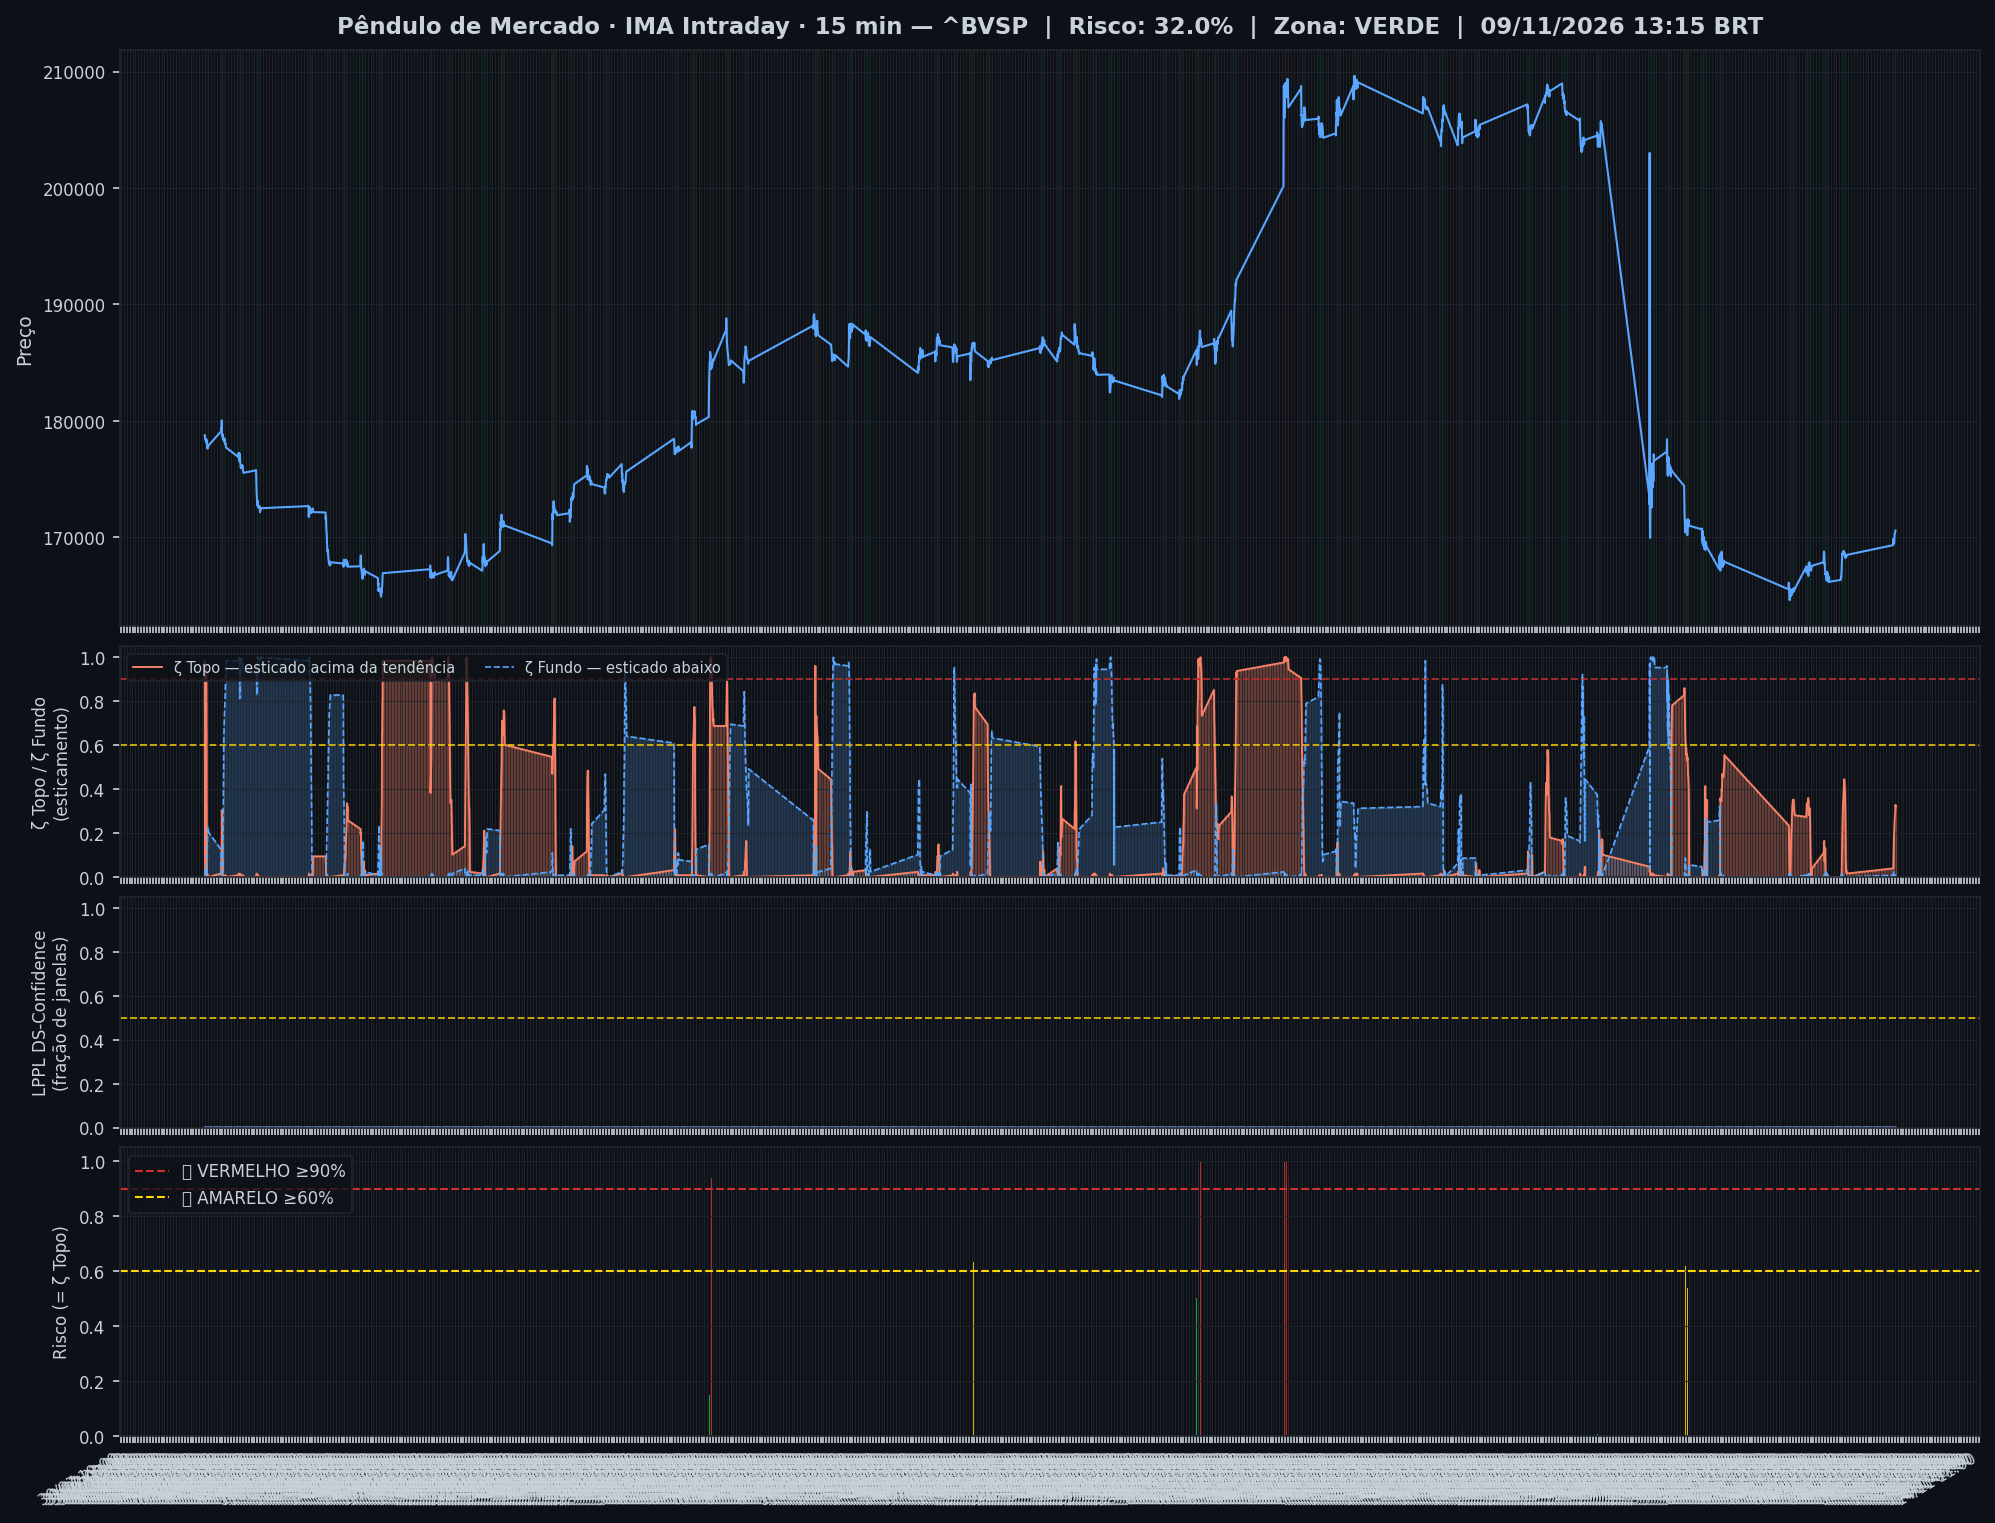
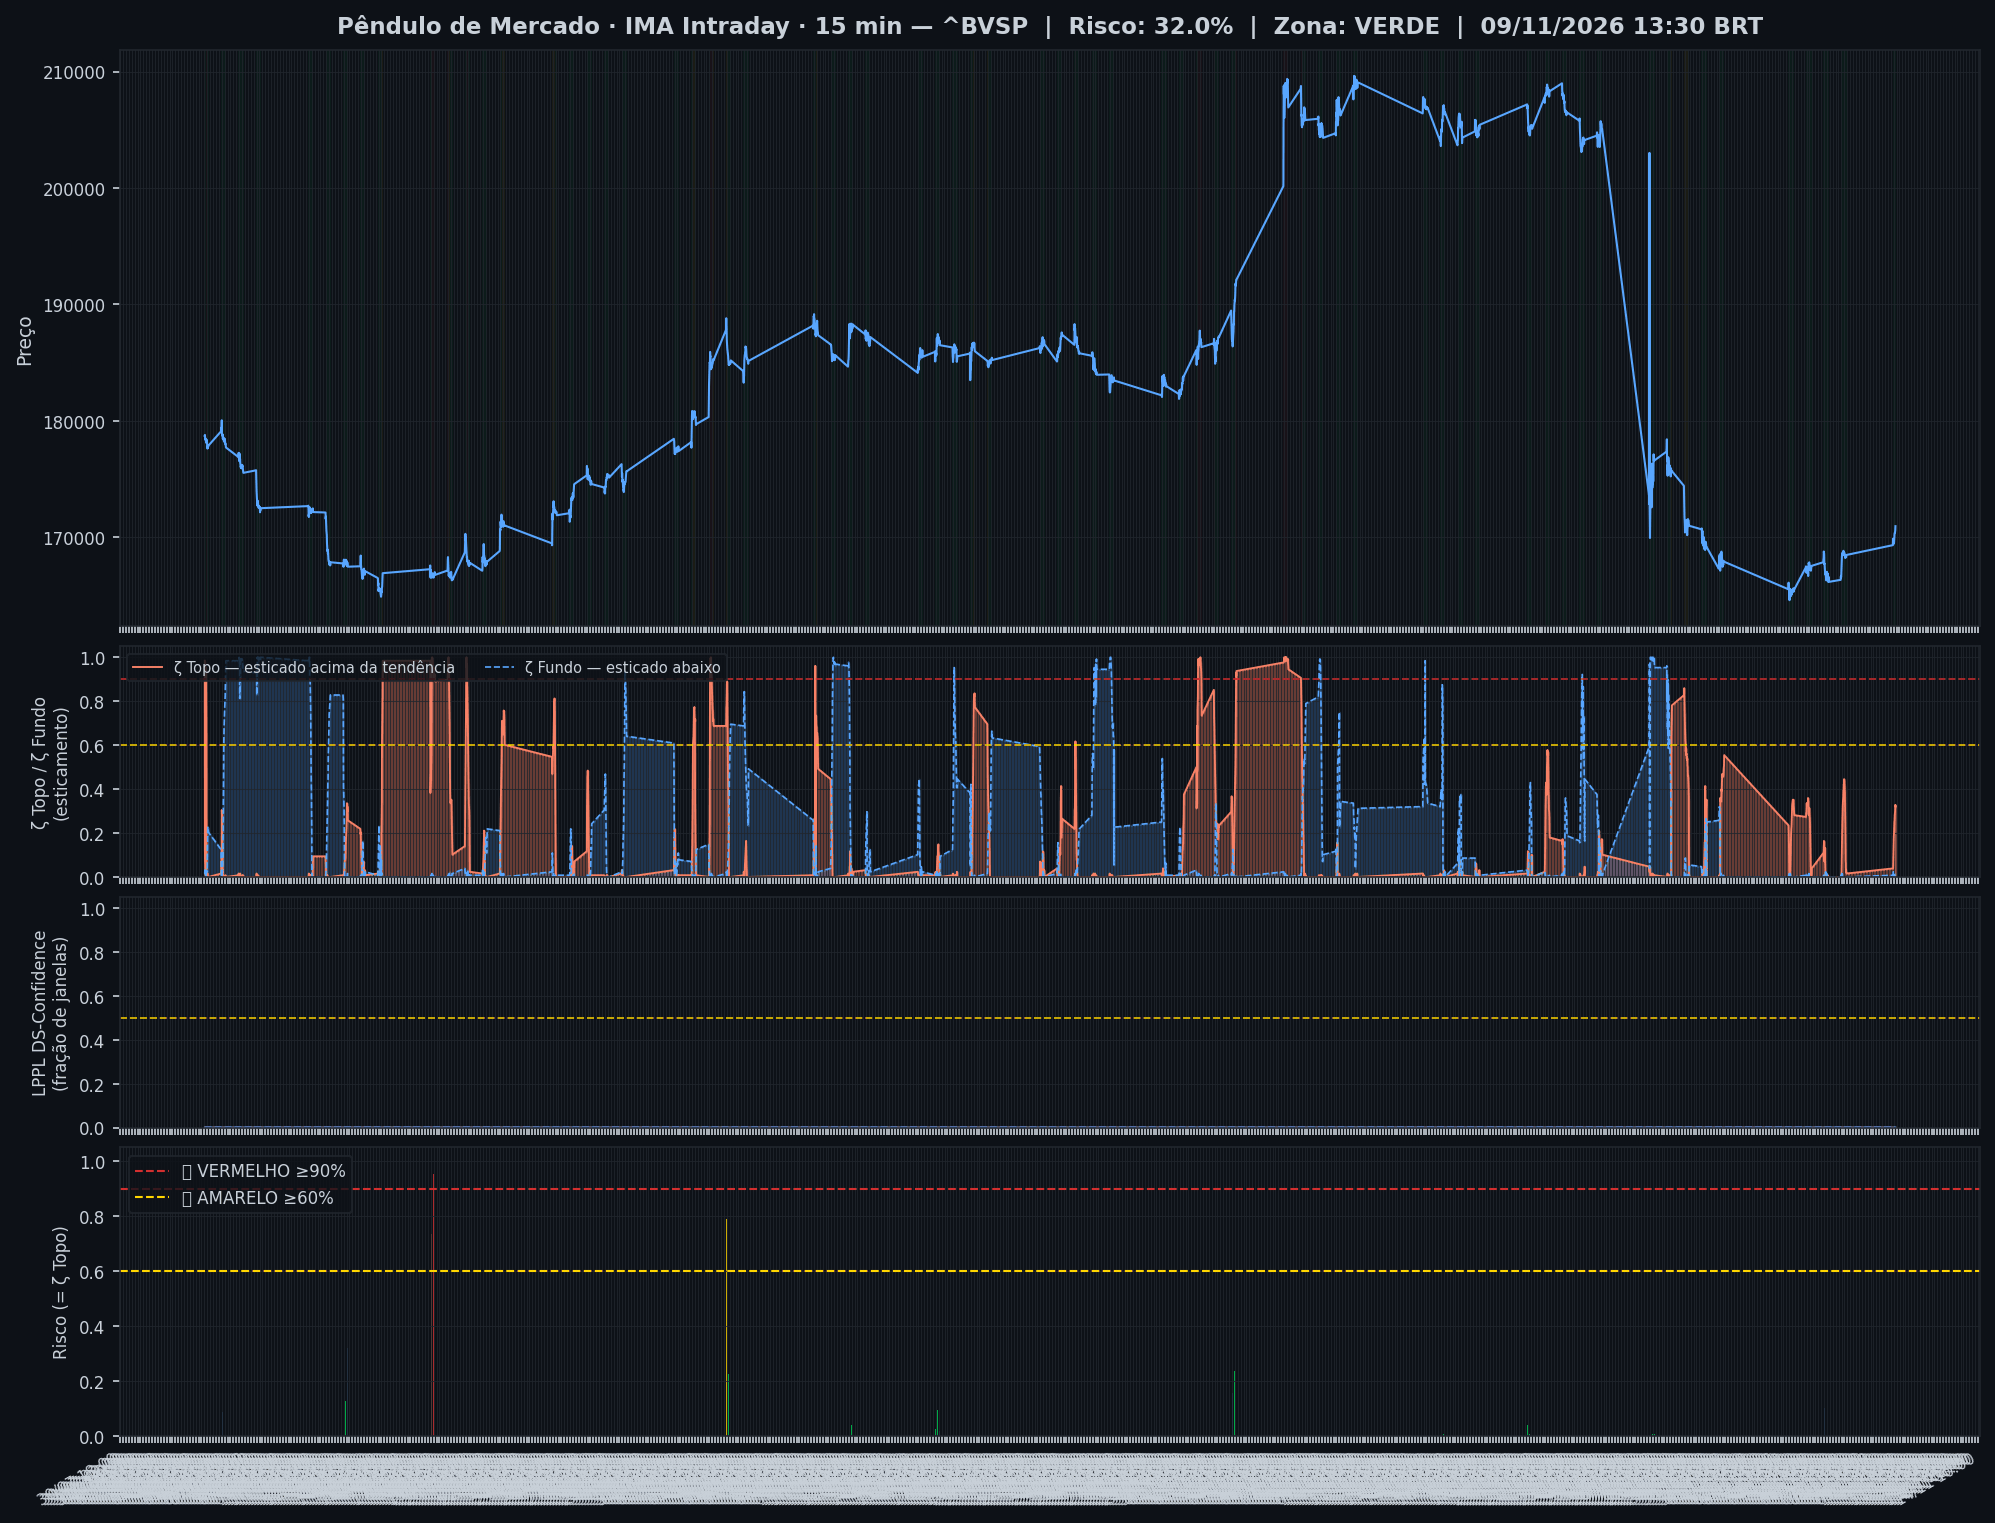
🤖 Auto: Sinal 09/11/2026 13:46

Changed region(s): [[0.0932, 0.432, 0.9634, 0.5863], [0.0311, 0.9258, 0.9945, 0.9875]]

diff --git a/content/intraday/2026-11-09.md b/content/intraday/2026-11-09.md
@@ -1,10 +1,10 @@
 ---
-title: "🟢 Intraday 09/11/2026 13:15 BRT — VERDE"
+title: "🟢 Intraday 09/11/2026 13:30 BRT — VERDE"
 date: 2026-11-09
 tags: [intraday]
 ---
 
-> [!success] Onde o mercado está agora (09/11 13:15, candles de 15 min): **🟢 Calmo**
+> [!success] Onde o mercado está agora (09/11 13:30, candles de 15 min): **🟢 Calmo**
 > `Pânico ◀─────────────●───────▶ Euforia`
 >
 > O Ibovespa está dentro da sua faixa normal, sem excesso para cima nem para baixo.
@@ -20,7 +20,7 @@ tags: [intraday]
 > | 📍 **Sinais** | hoje: nenhum sinal | [abrir](sinais-topo-fundo/) |
 > | 🧪 **Placar ao vivo** | 1 operação(ões), 0 com lucro, soma -0,8% | [abrir](operacoes/) |
 
-> [!success] IMA Intraday · 15 min (09/11 13:15): 🟢 **VERDE** — Risco 32% · ▼ -1 p.p. vs leitura anterior
+> [!success] IMA Intraday · 15 min (09/11 13:30): 🟢 **VERDE** — Risco 32% · ＝ +0 p.p. vs leitura anterior
 > `██████░░░░░░░░░░░░░░`
 > Preço na faixa normal em torno da tendência.
 
@@ -32,13 +32,13 @@ tags: [intraday]
 >
 > *Leitura educacional baseada em 26 anos de dados, não recomendação. [Como usar](../metodologia/crise#3-como-usar-na-prática).*
 
-| Indicador — IMA Intraday · 15 min (09/11 13:15) | Valor |
+| Indicador — IMA Intraday · 15 min (09/11 13:30) | Valor |
 |---|---|
 | 🔴 ζ Topo — preço esticado acima da tendência | **32%** |
 | 🔵 ζ Fundo — preço esticado abaixo da tendência | 0% |
 | 🫧 LPPL bolha — alta super-exponencial (risco de crash) | 0% |
 | 🫧 LPPL antibolha — queda super-exponencial (risco de repique) | 0% |
-| 📊 Ibovespa | 170.602 pts |
+| 📊 Ibovespa | 170.968 pts |
 
 ![Gráfico do sinal](../graficos/sinal_intraday.png)
 
@@ -46,6 +46,7 @@ tags: [intraday]
 
 | Data | Zona | Evento | Risco | ζ Topo | ζ Fundo | LPPL |
 |---|---|---|---|---|---|---|
+| 2026-11-09 13:30 | 🟢 VERDE |  | **32%** | 32% | 0% | 0% |
 | 2026-11-09 13:15 | 🟢 VERDE |  | **32%** | 32% | 0% | 0% |
 | 2026-11-09 13:00 | 🟢 VERDE |  | **33%** | 33% | 0% | 0% |
 | 2026-11-09 12:45 | 🟢 VERDE |  | **30%** | 30% | 0% | 0% |
@@ -75,7 +76,6 @@ tags: [intraday]
 | 2026-11-06 15:00 | 🟢 VERDE |  | **42%** | 42% | 0% | 0% |
 | 2026-11-06 14:45 | 🟢 VERDE |  | **44%** | 44% | 0% | 0% |
 | 2026-11-06 14:30 | 🟢 VERDE |  | **45%** | 45% | 0% | 0% |
-| 2026-11-06 14:15 | 🟢 VERDE |  | **42%** | 42% | 0% | 0% |
 
 <small>Destaques: 🟡 ≥ 60% · 🔴 ≥ 90% (Risco e ζ Topo) · 🔵 ≥ 60% · 🔪 ≥ 90% (ζ Fundo) · 🫧 ≥ 30% · 🫧🔴 ≥ 50% (LPPL)</small>
 
@@ -85,37 +85,37 @@ tags: [intraday]
 
 | Zona | Ativo | Setor | ζ Topo | ζ Fundo |
 |---|---|---|---|---|
-| 🟢 | **WEG** | Industrial | 50.8% | 0.0% |
-| 🟡 | **SABESP** | Saneamento | 46.9% | 0.8% |
-| 🟢 | **EMBRAER** | Outros | 43.8% | 0.0% |
-| 🟢 | **VALE** | Mineração | 43.0% | 0.0% |
-| 🟢 | **VIBRA** | Energia | 43.0% | 0.0% |
-| 🟢 | **ULTRAPAR** | Outros | 35.9% | 10.2% |
-| 🟢 | **GERDAU** | Siderurgia | 28.9% | 0.0% |
-| 🟢 | **REDE D OR** | Saúde | 0.0% | 27.3% |
-| 🟢 | **PETROBRAS** | Petróleo | 7.0% | 25.0% |
-| 🟢 | **BRADESCO** | Financeiro | 25.0% | 0.0% |
-| 🟢 | **PRIO** | Petróleo | 0.8% | 24.2% |
+| 🟢 | **WEG** | Industrial | 51.6% | 0.0% |
+| 🟡 | **SABESP** | Saneamento | 46.9% | 1.6% |
+| 🟢 | **VIBRA** | Energia | 46.1% | 0.0% |
+| 🟢 | **VALE** | Mineração | 45.3% | 0.0% |
+| 🟢 | **EMBRAER** | Outros | 43.0% | 0.0% |
+| 🟢 | **ULTRAPAR** | Outros | 40.6% | 6.2% |
+| 🟢 | **PRIO** | Petróleo | 0.8% | 29.7% |
+| 🟢 | **GERDAU** | Siderurgia | 28.1% | 0.0% |
+| 🟢 | **PETROBRAS** | Petróleo | 3.9% | 27.3% |
+| 🟢 | **ENEVA** | Energia | 21.9% | 0.0% |
+| 🟢 | **REDE D OR** | Saúde | 0.0% | 21.9% |
+| 🟢 | **BRADESCO** | Financeiro | 20.3% | 0.0% |
 | 🟢 | **ITAUSA** | Financeiro | 19.5% | 0.0% |
-| 🟢 | **ENEVA** | Energia | 18.8% | 0.0% |
-| 🟢 | **BRASIL** | Financeiro | 18.0% | 18.0% |
-| 🟢 | **PETROBRAS** | Petróleo | 1.6% | 14.1% |
-| 🟢 | **SUZANO S.A.** | Papel/Celulose | 13.3% | 0.0% |
-| 🟢 | **LOCALIZA** | Aluguel | 10.9% | 0.0% |
-| 🟢 | **B3** | Financeiro | 9.4% | 0.0% |
-| 🟢 | **AMBEV S/A** | Consumo | 0.8% | 9.4% |
-| 🟢 | **EQUATORIAL** | Energia | 9.4% | 0.0% |
-| 🟢 | **COPEL** | Energia | 6.2% | 0.0% |
-| 🟢 | **USD/BRL** | Câmbio | 0.8% | 1.6% |
-| 🟢 | **ITAUUNIBANCO** | Financeiro | 0.8% | 0.0% |
-| 🟢 | **AXIA ENERGIA** | Energia | 0.0% | 0.8% |
+| 🟢 | **PETROBRAS** | Petróleo | 0.0% | 18.8% |
+| 🟢 | **BRASIL** | Financeiro | 14.8% | 14.8% |
+| 🟢 | **B3** | Financeiro | 13.3% | 0.0% |
+| 🟢 | **SUZANO S.A.** | Papel/Celulose | 11.7% | 0.0% |
+| 🟢 | **EQUATORIAL** | Energia | 10.9% | 0.0% |
+| 🟢 | **LOCALIZA** | Aluguel | 9.4% | 0.0% |
+| 🟢 | **AMBEV S/A** | Consumo | 1.6% | 5.5% |
+| 🟢 | **COPEL** | Energia | 5.5% | 0.0% |
+| 🟢 | **USD/BRL** | Câmbio | 0.0% | 3.9% |
+| 🟢 | **ITAUUNIBANCO** | Financeiro | 1.6% | 0.8% |
+| 🟢 | **AXIA ENERGIA** | Energia | 0.8% | 0.8% |
 | 🟢 | **BTGP BANCO** | Financeiro | 0.0% | 0.8% |
 
 <small>Destaques: 🟡 ≥ 60% · 🔴 ≥ 90% (Risco e ζ Topo) · 🔵 ≥ 60% · 🔪 ≥ 90% (ζ Fundo) · 🫧 ≥ 30% · 🫧🔴 ≥ 50% (LPPL)</small>
 
 ![Monitor multi-ativo](../graficos/multi_intraday.png)
 
-*Página atualizada em 09/11/2026 13:31 BRT (leitura da barra de 2026-11-09 13:15 BRT).*
+*Página atualizada em 09/11/2026 13:46 BRT (leitura da barra de 2026-11-09 13:30 BRT).*
 
 > [!warning] O que este indicador não faz
 > Medido em 5 anos de Ibovespa, o ζ **não antecipa** topos nem fundos: a capacidade de separar o que sobe do que cai ficou em 0,49–0,52, e 0,50 é moeda jogada ao ar. Ele descreve o estado de agora; não é aviso do que vem. As zonas verde/amarelo/vermelho continuam na página como descrição desse estado — **não as use como sinal de entrada ou saída**.

diff --git a/content/index.md b/content/index.md
@@ -6,9 +6,9 @@ tags: [home]
 
 **As ondas do mercado, explicadas.** Leitura do Ibovespa com estatística de 26 anos, baseada no trabalho de pesquisadores e traders reconhecidos e adaptada por Jarbas Daniel da Costa.
 
-*Última atualização: 09/11/2026 13:31 BRT · Intraday 15min*
+*Última atualização: 09/11/2026 13:46 BRT · Intraday 15min*
 
-> [!success] Onde o mercado está agora (09/11 13:15, candles de 15 min): **🟢 Calmo**
+> [!success] Onde o mercado está agora (09/11 13:30, candles de 15 min): **🟢 Calmo**
 > `Pânico ◀─────────────●───────▶ Euforia`
 >
 > O Ibovespa está dentro da sua faixa normal, sem excesso para cima nem para baixo.
@@ -49,18 +49,18 @@ tags: [home]
 > *Leitura educacional baseada em 26 anos de dados, não recomendação. [Como usar](metodologia/crise#3-como-usar-na-prática).*
 
 > [!info]- 🌊 Detalhes do Sinal IMA (indicadores e últimos 7 pregões)
-> > [!success] IMA Intraday · 15 min (09/11 13:15): 🟢 **VERDE** — Risco 32% · ▼ -1 p.p. vs leitura anterior
+> > [!success] IMA Intraday · 15 min (09/11 13:30): 🟢 **VERDE** — Risco 32% · ＝ +0 p.p. vs leitura anterior
 > > `██████░░░░░░░░░░░░░░`
 > > Preço na faixa normal em torno da tendência.
 >
 >
-> | Indicador — IMA Intraday · 15 min (09/11 13:15) | Valor |
+> | Indicador — IMA Intraday · 15 min (09/11 13:30) | Valor |
 > |---|---|
 > | 🔴 ζ Topo — preço esticado acima da tendência | **32%** |
 > | 🔵 ζ Fundo — preço esticado abaixo da tendência | 0% |
 > | 🫧 LPPL bolha — alta super-exponencial (risco de crash) | 0% |
 > | 🫧 LPPL antibolha — queda super-exponencial (risco de repique) | 0% |
-> | 📊 Ibovespa | 170.602 pts |
+> | 📊 Ibovespa | 170.968 pts |
 >
 > **Multi-ativo:** 0% em tensão (0🔴 1🟡 de 25 ativos)
 >

diff --git a/content/historico.md b/content/historico.md
@@ -5,9 +5,9 @@ tags: [historico]
 
 # 📜 Histórico de leituras (v5)
 
-**2.224 leituras** desde 2026-07-03. Na página ficam os últimos 3 dias leitura por leitura e o resumo de cada dia anterior; o registro inteiro está no arquivo para baixar.
+**2.225 leituras** desde 2026-07-03. Na página ficam os últimos 3 dias leitura por leitura e o resumo de cada dia anterior; o registro inteiro está no arquivo para baixar.
 
-[**Baixar o histórico completo**](historico-completo.csv) (97 KB · abre no Excel e no LibreOffice)
+[**Baixar o histórico completo**](historico-completo.csv) (98 KB · abre no Excel e no LibreOffice)
 
 > [!info] Antes de 03/07/2026
 > As leituras do método v3 ficam em [histórico anterior](historico-anterior) — a escala do risco era outra, por isso elas não entram na mesma tabela.
@@ -16,6 +16,7 @@ tags: [historico]
 
 | Data | Modo | Zona | Risco | IMA | LPPL |
 |---|---|---|---|---|---|
+| 2026-11-09 13:30 | intraday | 🟢 VERDE | 32% | 32% | 0% |
 | 2026-11-09 13:15 | intraday | 🟢 VERDE | 32% | 32% | 0% |
 | 2026-11-09 13:00 | intraday | 🟢 VERDE | 33% | 33% | 0% |
 | 2026-11-09 12:45 | intraday | 🟢 VERDE | 30% | 30% | 0% |

diff --git a/content/operacoes/ranking.md b/content/operacoes/ranking.md
@@ -5,7 +5,7 @@ tags: [operacoes]
 description: "As regras de compra do site ordenadas pelo resultado, com treino, teste e placar ao vivo"
 ---
 
-*Atualizado 09/11/2026 13:31 · histórico simulado com as regras congeladas em 23/10/2026 + placar ao vivo.*
+*Atualizado 09/11/2026 13:46 · histórico simulado com as regras congeladas em 23/10/2026 + placar ao vivo.*
 
 As regras de compra do site, **da que mais rendeu para a que menos rendeu**. O resultado é por operação, no índice à vista, sem custos e sem juros compostos (a soma é só a soma das operações). **Treino** = entradas de 2001 a 2013 e **teste** = 2014 em diante: uma regra só é confiável se ganhou nos dois. O único resultado sem nenhum ajuste ao histórico é o **placar ao vivo**.
 

diff --git a/content/linha-do-tempo/index.md b/content/linha-do-tempo/index.md
@@ -5,7 +5,7 @@ description: "Todo sinal, ordem, stop e aviso do Pêndulo de Mercado, do mais re
 tags: [eventos]
 ---
 
-*Atualizada 09/11/2026 13:31 BRT · a cada 15 min no pregão e às 19h.*
+*Atualizada 09/11/2026 13:46 BRT · a cada 15 min no pregão e às 19h.*
 
 Tudo o que o sistema fez ou detectou, **do mais recente para o mais antigo**: sinais de topo e fundo, ordens de compra e de venda armadas, compras, vendas, stops, avisos de 🚨 preço perto do nível e mudanças do Sinal IMA. Os **últimos 7 dias** ficam abertos; o resto, por **ano → mês → dia**.
 
